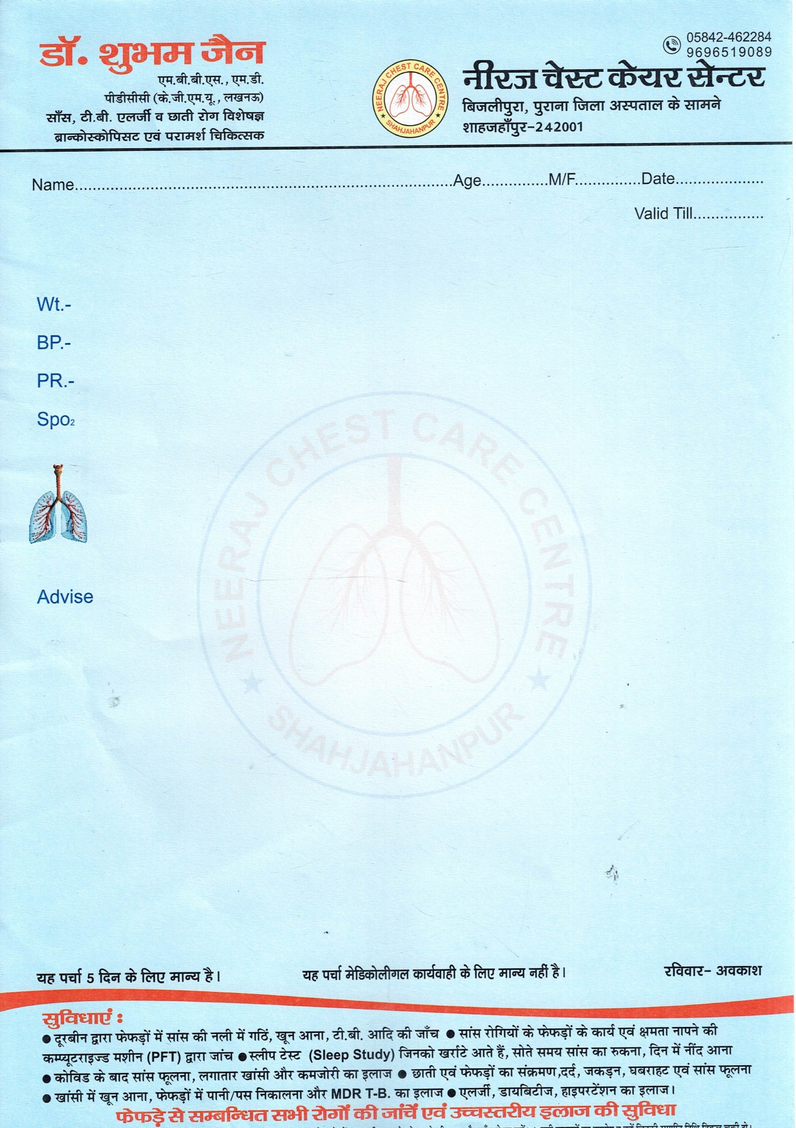
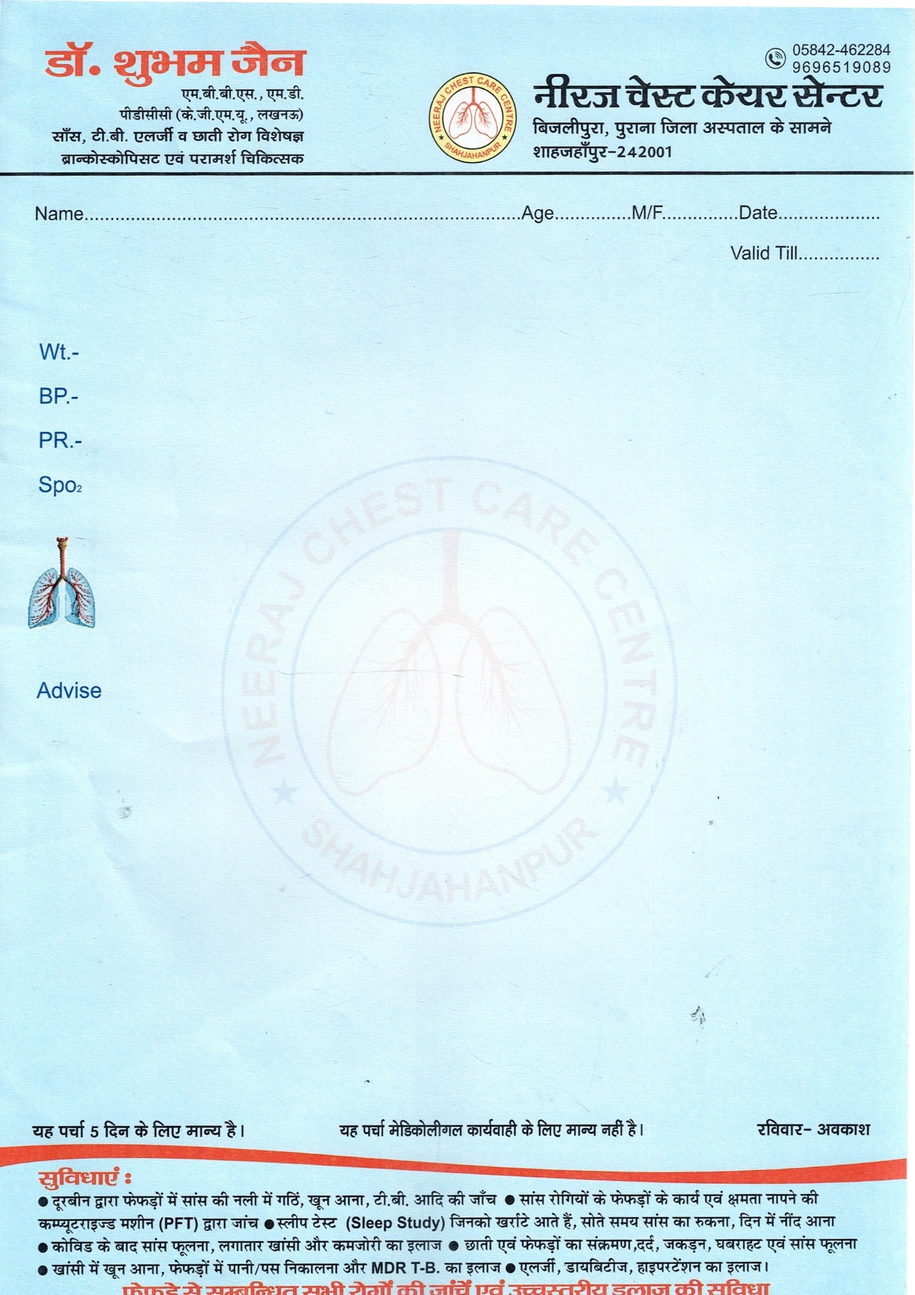
set Up page printing

diff --git a/styles.css b/styles.css
@@ -566,8 +566,8 @@ body {
 
 .print-content {
     position: absolute;
-    top: 18%;
-    left: 6%;
+    top: 19%;
+    left: 4.5%;
     width: 88%;
     height: 60%;
 }
@@ -576,7 +576,7 @@ body {
     font-size: 0.95rem;
     color: #222;
     margin-bottom: 1rem;
-    border-bottom: 1px dashed #aaa;
+
     padding-bottom: 0.5rem;
 }
 
